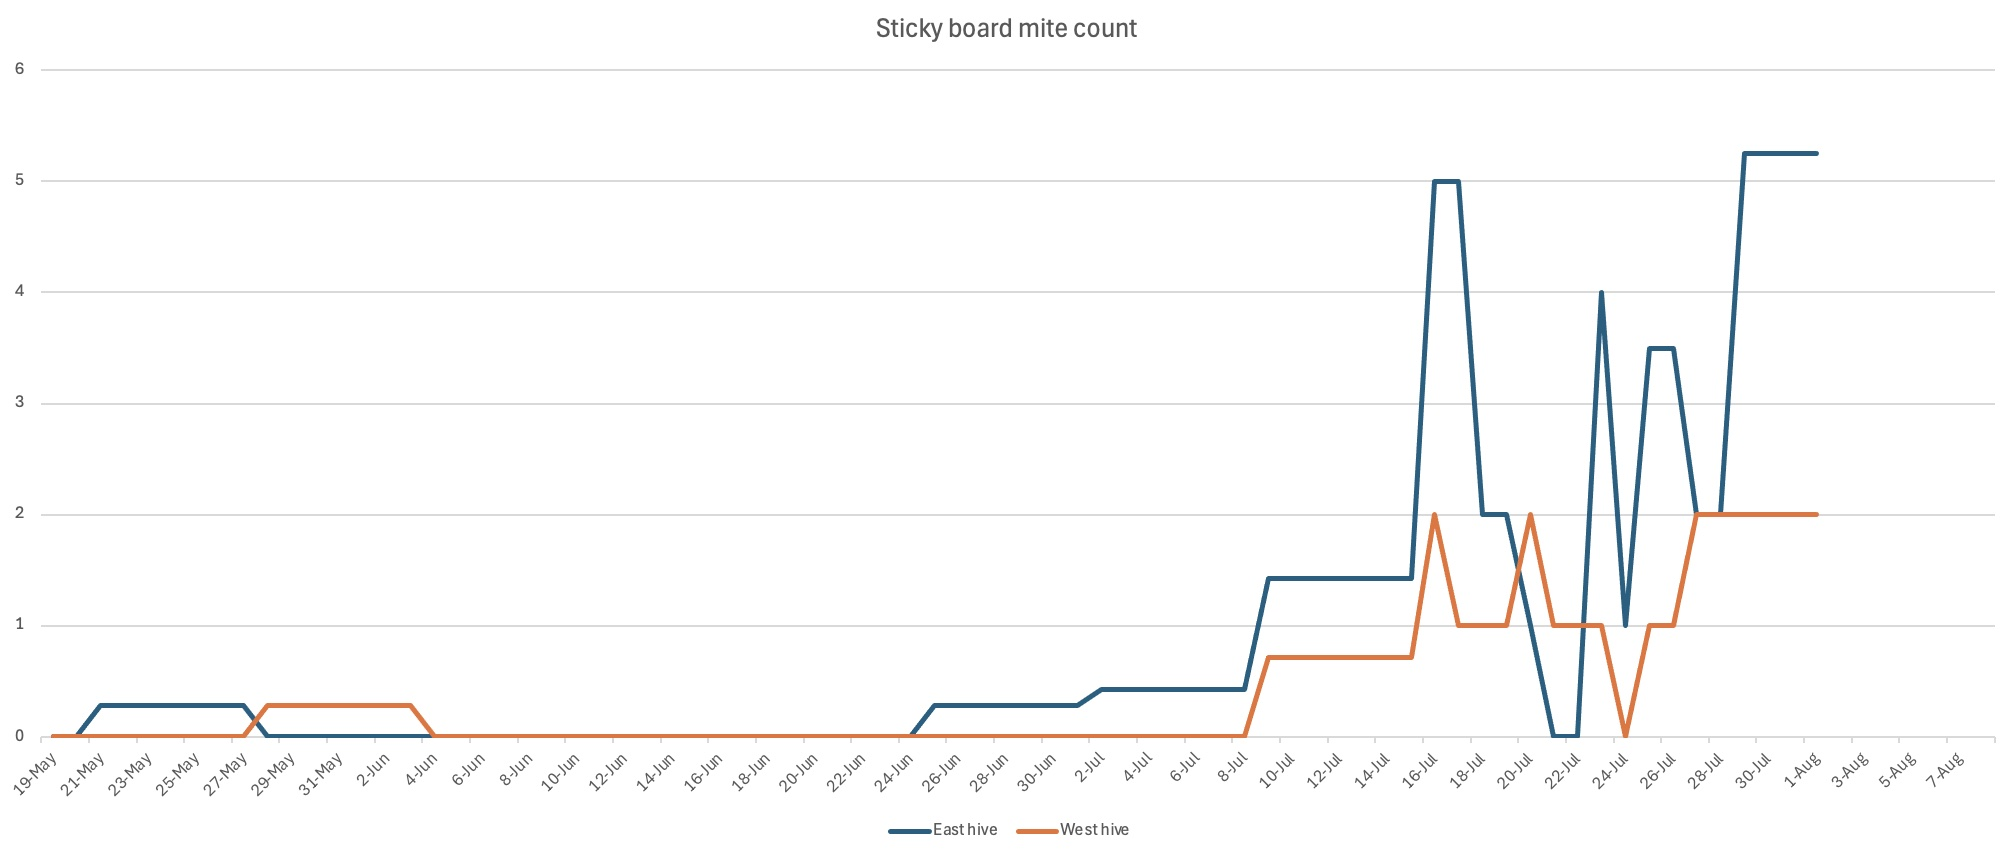
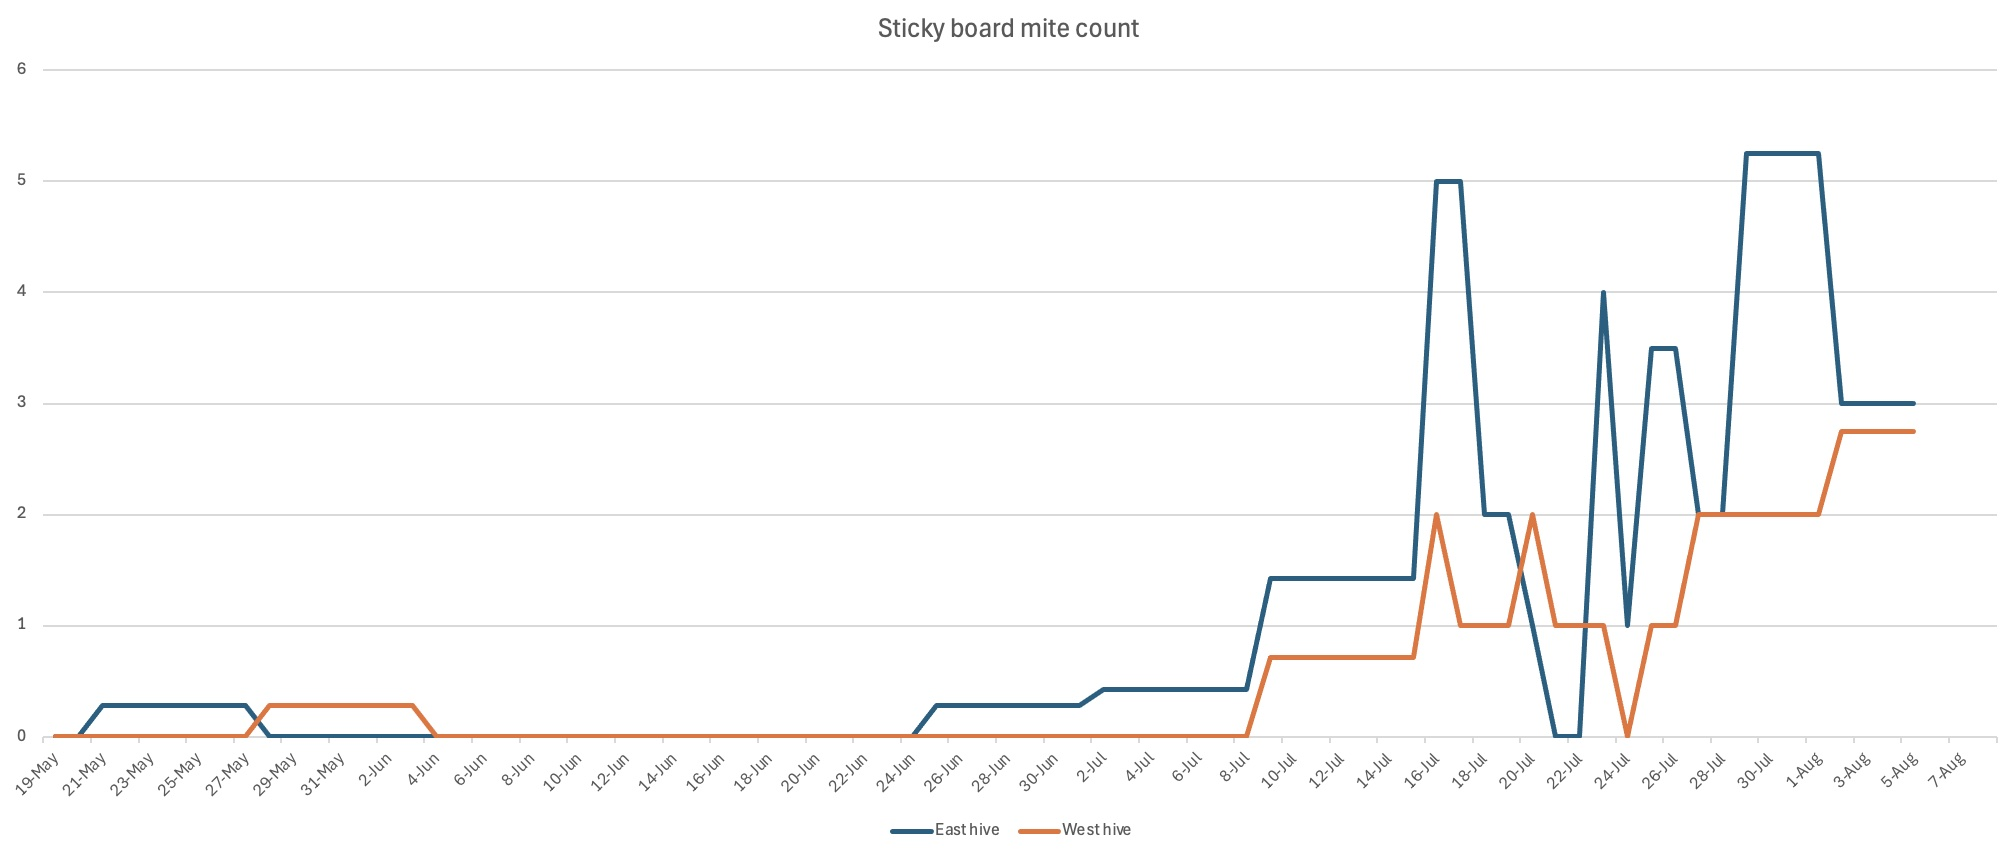
added inspection

diff --git a/_posts/2024-08-05-inspection.md b/_posts/2024-08-05-inspection.md
@@ -1,0 +1,32 @@
+---
+title: "Inspection"
+date: 2024-08-05
+---
+
+
+- Time: ~15.30
+- Temp: ~70F, clear and sunny
+
+### East nuc
+
+- Temperament: calm, no smoke needed
+- Eggs, larvae, and capped brood present.
+- Open nectar, full frames of capped honey, and some pollen
+- Honey super not built out much.
+- Removed drone frame full of capped drone brood
+- Removed queen excluder to encourage building out super frames.
+- Laying pattern... I need to research what is good here.
+- Bottom board had 12 mites, last check was 4 days ago
+- Wiped and re-oiled the bottom board.
+
+### West nuc
+
+This colony still seems pretty weak. They just haven't built up like the other colony.
+
+- Temperament: calm, no smoke needed
+- Eggs, larvae, and capped brood present
+- Open nectar, capped honey and pollen present
+- Third brood box mostly empty
+- Bottom board had 11 mites, last check was 4 days ago
+- Wiped and re-oiled the bottom board.
+
